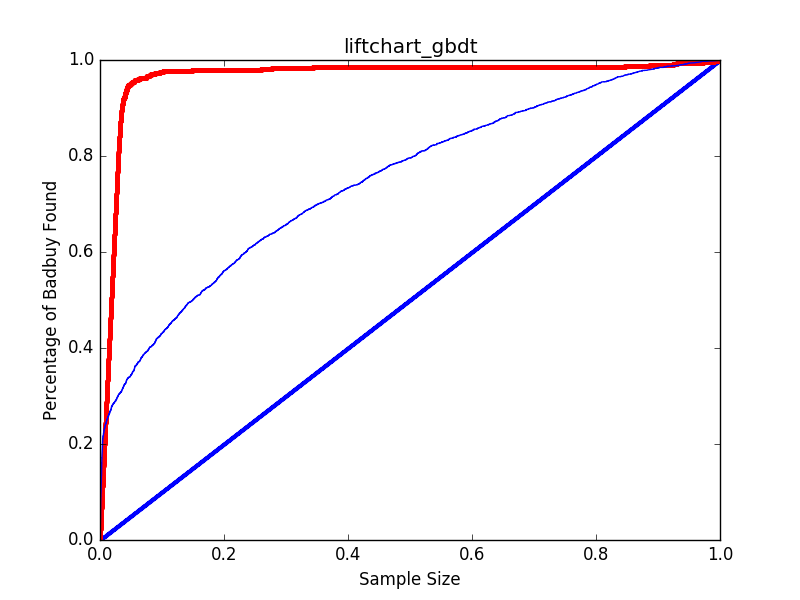
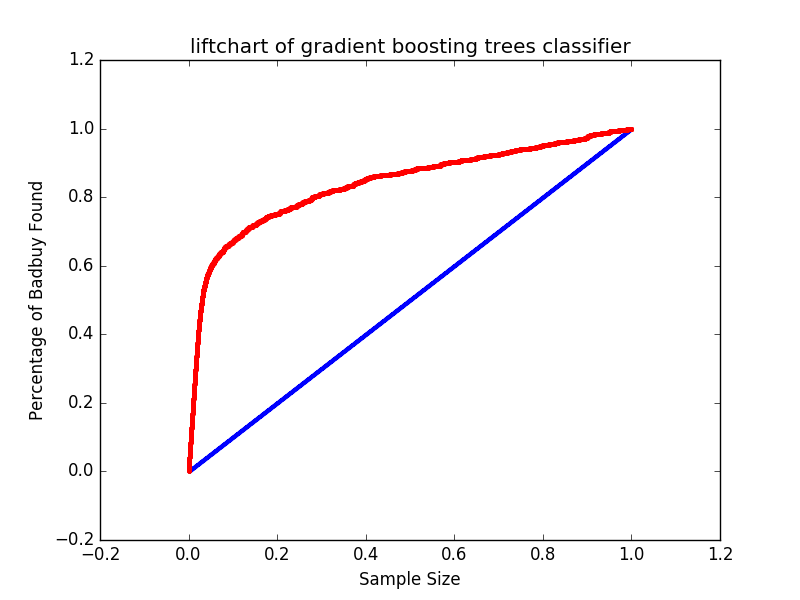
retuned parameters, added accuracy score

diff --git a/gbdt.py b/gbdt.py
@@ -2,7 +2,7 @@ import numpy as np
 from model import model, index
 import matplotlib.pyplot as plt
 from sklearn.ensemble import RandomForestClassifier, GradientBoostingClassifier
-from sklearn.metrics import f1_score, confusion_matrix, auc, roc_curve
+from sklearn.metrics import f1_score, confusion_matrix, auc, roc_curve, accuracy_score
 from sklearn.model_selection import train_test_split
 # from preprocess.preprocessing import preprocess
 from sklearn.model_selection import GridSearchCV
@@ -45,28 +45,29 @@ class GBDT(model):
         best_f1score, best_clf = 0, None
         X_train, X_test, y_train, y_test = train_test_split(X_train, y_train, test_size=0.33, random_state=42)
         # for n_estimators in np.arange(5, 50, 10):
-        for n_estimators in [25]:
+        for n_estimators in [100]:
             # for learning_rate in np.arange(.1,1,.1):
             for learning_rate in [.3]:
                 # for min_samples_leaf in np.arange(1, 21, 10):
-                # for min_samples_leaf in np.arange(1, 40, 10):
                 for min_samples_leaf in [1]:
                     # for max_features in ('auto', 'sqrt', 'log2'):
                     for max_features in [None]:
-                        gbdt = GradientBoostingClassifier(
-                               n_estimators = n_estimators,
-                               learning_rate = learning_rate,
-                               min_samples_leaf = min_samples_leaf,
-                               max_features = max_features
-                               )
-                        # rf = RandomForestClassifier()
-                        gbdt.fit(X_train, y_train)
-                        y_pred = gbdt.predict(X_test)
-                        curr_score = f1_score(y_test, y_pred)
-                        if(curr_score >= best_f1score):
-                            best_f1score = curr_score
-                            best_clf = gbdt
-                        print "n_estimators: ", n_estimators, " learning rate: ", learning_rate, "min_samples_leaf:", min_samples_leaf,"f1 score: ", curr_score
+                        for max_depth in [5]:
+                            gbdt = GradientBoostingClassifier(
+                                   n_estimators = n_estimators,
+                                   learning_rate = learning_rate,
+                                   min_samples_leaf = min_samples_leaf,
+                                   max_features = max_features,
+                                   max_depth = max_depth
+                                   )
+                            # rf = RandomForestClassifier()
+                            gbdt.fit(X_train, y_train)
+                            y_pred = gbdt.predict(X_test)
+                            curr_score = f1_score(y_test, y_pred)
+                            if(curr_score >= best_f1score):
+                                best_f1score = curr_score
+                                best_clf = gbdt
+                            print "n_estimators: ", n_estimators, " learning rate: ", learning_rate, " max_depth: ", max_depth, "min_samples_leaf:", min_samples_leaf,"f1 score: ", curr_score
         
 
         # my_scorer = make_scorer(f1_score)
@@ -116,7 +117,8 @@ class GBDT(model):
         # print "auc score; ", auc_score
         eval_index = index(auc_score, f1score)
         self.roc_curve("roc_gbdt")
-        self.lift_chart(y_pred, y_pred_gbdt_lm, "liftchart_gbdt", "liftchart_gbdt")
+        self.lift_chart(y_pred, y_pred_gbdt_lm, "liftchart of gradient boosting trees classifier", "liftchart_gbdt")
+        print "accuracy score: ", accuracy_score(y_test, y_pred)
         return eval_index
 
     def roc_curve(self, file_path):
@@ -146,6 +148,7 @@ class GBDT(model):
         taille = taille / float(n)
         import matplotlib.pyplot as plt
         #title and axis labels
+        plt.figure()
         plt.title(title)
         plt.xlabel('Sample Size')
         plt.ylabel('Percentage of Badbuy Found')

diff --git a/rf.py b/rf.py
@@ -2,7 +2,7 @@ import numpy as np
 from model import model, index
 import matplotlib.pyplot as plt
 from sklearn.ensemble import RandomForestClassifier
-from sklearn.metrics import f1_score, confusion_matrix, auc, roc_curve
+from sklearn.metrics import f1_score, confusion_matrix, auc, roc_curve, accuracy_score
 from sklearn.model_selection import train_test_split
 # from preprocess.preprocessing import preprocess
 from sklearn.model_selection import GridSearchCV
@@ -29,22 +29,25 @@ class RF(model):
         for n_estimators in [50]:
             # for min_samples_leaf in np.arange(1, 21, 10):
             for min_samples_leaf in [20]:
-                # for max_features in ('auto', 'sqrt', 'log2'):
-                for max_features in [None]:
-                    rf = RandomForestClassifier(
-                           n_estimators = n_estimators,
-                           min_samples_leaf = min_samples_leaf,
-                           max_features = max_features,
-                           class_weight = "balanced"
-                           )
-                    # rf = RandomForestClassifier()
-                    rf.fit(X_train, y_train)
-                    y_pred = rf.predict(X_test)
-                    curr_score = f1_score(y_test, y_pred)
-                    if(curr_score >= best_f1score):
-                        best_f1score = curr_score
-                        best_clf = rf
-                    print "get f1 score: ", curr_score
+                # for max_features in ('log2', 'sqrt', None):
+                for max_features in [.5]:
+                # for max_features in np.arange(.01, .9, .1):
+                    for max_depth in [None]:
+                        rf = RandomForestClassifier(
+                               n_estimators = n_estimators,
+                               min_samples_leaf = min_samples_leaf,
+                               max_features = max_features,
+                               class_weight = "balanced",
+                               max_depth = max_depth
+                               )
+                        # rf = RandomForestClassifier()
+                        rf.fit(X_train, y_train)
+                        y_pred = rf.predict(X_test)
+                        curr_score = f1_score(y_test, y_pred)
+                        if(curr_score >= best_f1score):
+                            best_f1score = curr_score
+                            best_clf = rf
+                        print "max_features" , max_features, "max_depth: ", max_depth, " f1 score: ", curr_score
         
 
         # my_scorer = make_scorer(f1_score)
@@ -92,7 +95,8 @@ class RF(model):
         eval_index = index(auc_score, f1score)
         # print "y_pred_rf_lm: ", y_pred_rf_lm
         self.roc_curve("roc_rf")
-        self.lift_chart(y_pred, y_pred_rf_lm, "liftchart_rf", "liftchart_rf")
+        self.lift_chart(y_pred, y_pred_rf_lm, "liftchart of random forest classifier", "liftchart_rf")
+        print "accuracy: ", accuracy_score(y_test, y_pred)
         return eval_index
         # return f1score, cm, auc_score
 
@@ -124,6 +128,7 @@ class RF(model):
         taille = taille / float(n)
         import matplotlib.pyplot as plt
         #title and axis labels
+        plt.figure()
         plt.title(title)
         plt.xlabel('Sample Size')
         plt.ylabel('Percentage of Badbuy Found')

diff --git a/dt.py b/dt.py
@@ -2,7 +2,7 @@ import numpy as np
 from model import model, index
 from sklearn import tree
 from sklearn.tree import DecisionTreeClassifier
-from sklearn.metrics import f1_score, confusion_matrix
+from sklearn.metrics import f1_score, confusion_matrix, accuracy_score
 from sklearn.model_selection import train_test_split
 # from preprocess.preprocessing import preprocess
 from sklearn.model_selection import GridSearchCV
@@ -35,12 +35,13 @@ class DT(model):
         best_f1score, best_clf = 0, None
         X_train, X_test, y_train, y_test = train_test_split(X, y, test_size=0.33, random_state=42)
         # for min_samples_leaf in np.arange(1, 21, 10):
-        for min_samples_leaf in np.arange(20, 60, 5):
-        # for min_samples_leaf in [21]:
+        # for min_samples_leaf in np.arange(20, 60, 5):
+        for min_samples_leaf in [21]:
             # # for max_features in ('auto', 'sqrt', 'log2'):
             # for max_features in ['sqrt', 'log2', None]:
             for max_features in [None]:
-                for max_depth in np.append([None], np.arange(4, 20, 2)):
+                # for max_depth in np.append([None], np.arange(4, 20, 2)):
+                for max_depth in [None]:
                     dt = DecisionTreeClassifier(
                            min_samples_leaf = min_samples_leaf,
                            max_features = max_features
@@ -83,6 +84,7 @@ class DT(model):
         f1score = f1_score(y_test, y_pred)
         cm = confusion_matrix(y_test, y_pred)
         # return f1score, cm
+        print "accuracy: ", accuracy_score(y_test, y_pred)
         return index(None, f1score)
 
 # data = np.load('preprocess/data.npy')
